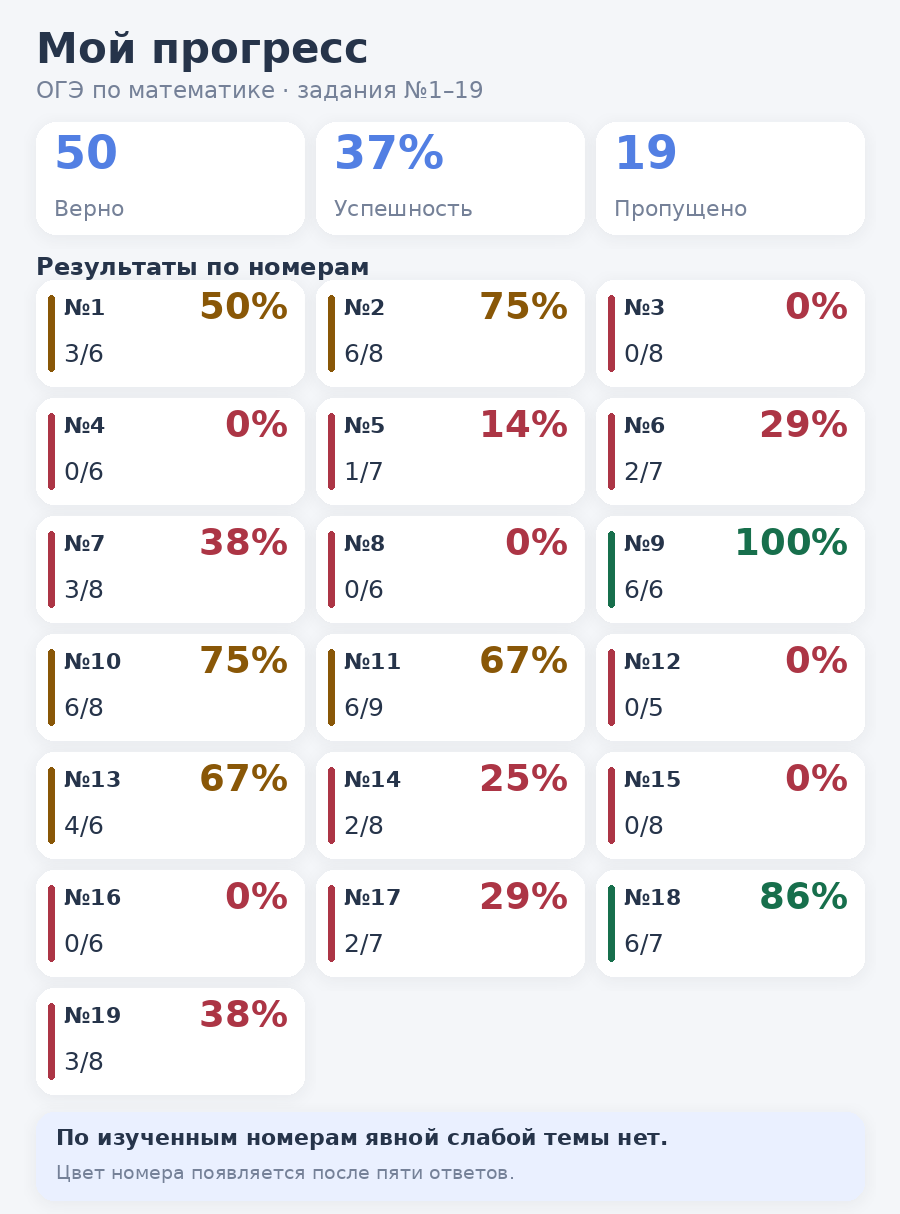
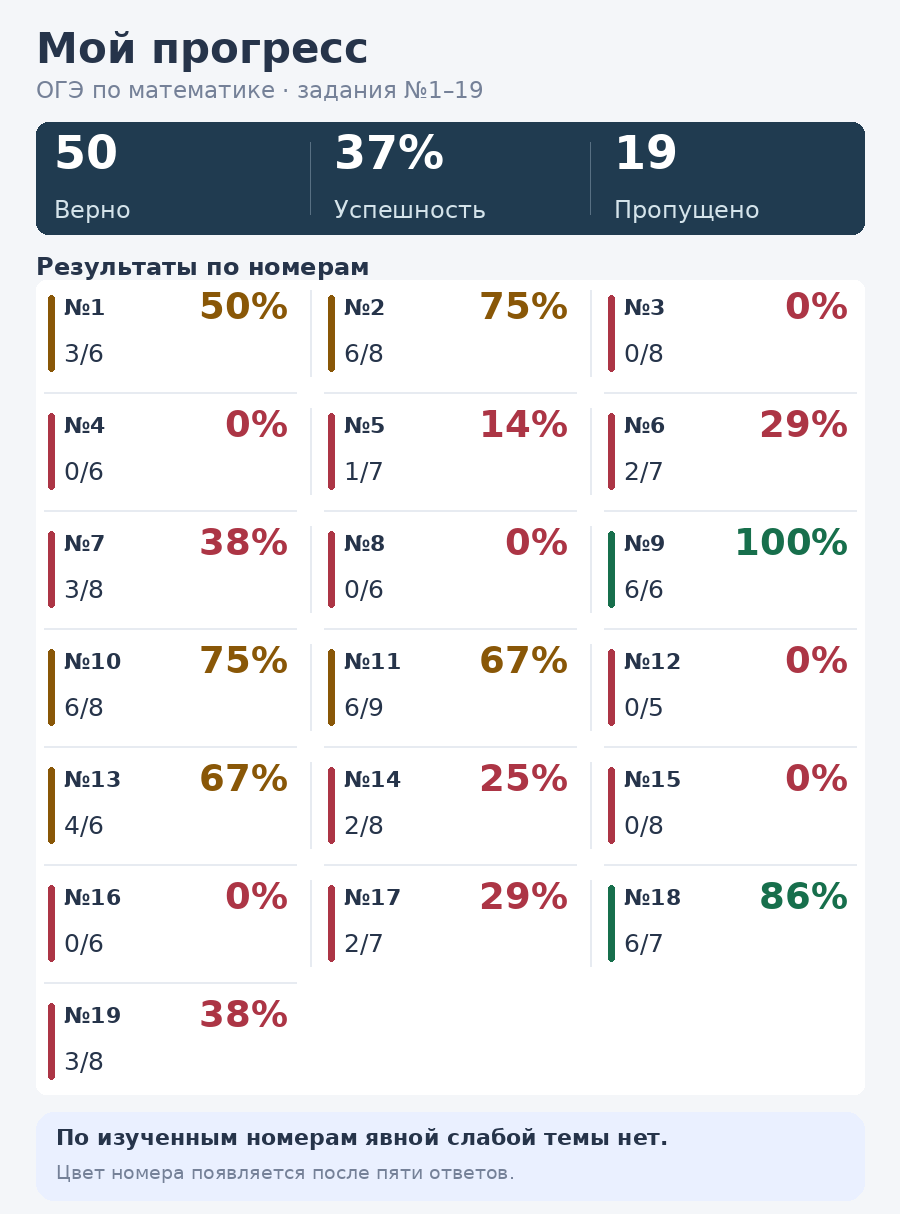
Собрать статистику №1–19 на одном компактном листе

Changed region(s): [[0.0311, 0.0914, 0.9644, 0.2133]]

diff --git a/app/bot/progress_image.py b/app/bot/progress_image.py
@@ -17,7 +17,7 @@ from aiogram.types import (
     InputMediaPhoto,
     Message,
 )
-from PIL import Image, ImageDraw, ImageFilter, ImageFont
+from PIL import Image, ImageDraw, ImageFont
 
 from app.persistence.training_insights import (
     MIN_ANSWERED_SAMPLE,
@@ -104,17 +104,6 @@ def _card(
     radius: int = 22,
     fill: str = PALETTE["card"],
 ) -> None:
-    x1, y1, x2, y2 = box
-    shadow_pad = 12
-    shadow = Image.new("RGBA", (x2 - x1 + shadow_pad * 2, y2 - y1 + shadow_pad * 2))
-    ImageDraw.Draw(shadow).rounded_rectangle(
-        (shadow_pad, shadow_pad, shadow.width - shadow_pad, shadow.height - shadow_pad),
-        radius=radius,
-        fill=(38, 52, 74, 16),
-    )
-    image.alpha_composite(
-        shadow.filter(ImageFilter.GaussianBlur(8)), (x1 - shadow_pad, y1 - shadow_pad + 3)
-    )
     ImageDraw.Draw(image).rounded_rectangle(box, radius=radius, fill=fill)
 
 
@@ -169,9 +158,11 @@ def render_overview(insights: dict[str, Any]) -> Image.Image:
         ("Успешность", success_label(total)),
         ("Пропущено", str(max(0, int(total.get("skipped", 0))))),
     )
+    _card(image, (PAD, metric_y, WIDTH - PAD, metric_y + metric_h), radius=12, fill="#203B50")
     for index, (label, value) in enumerate(metrics):
         x = PAD + index * (metric_width + metric_gap)
-        _card(image, (x, metric_y, x + metric_width, metric_y + metric_h), radius=20)
+        if index:
+            draw.line((x - 6, metric_y + 20, x - 6, metric_y + metric_h - 20), fill="#587083")
         draw = ImageDraw.Draw(image)
         draw_fitted_text(
             draw,
@@ -180,19 +171,24 @@ def render_overview(insights: dict[str, Any]) -> Image.Image:
             max_width=metric_width - 36,
             size=46,
             minimum_size=24,
-            fill=PALETTE["blue"],
+            fill="white",
             bold=True,
         )
-        draw.text((x + 18, metric_y + 73), label, font=_font(22), fill=PALETTE["muted"])
+        draw.text((x + 18, metric_y + 73), label, font=_font(24), fill="#D4E3EA")
 
     draw = ImageDraw.Draw(image)
     draw.text((PAD, 252), "Результаты по номерам", font=_font(24, True), fill=PALETTE["ink"])
+    grid_bottom = GRID_TOP + GRID_ROWS * (TILE_HEIGHT + TILE_GAP_Y) - TILE_GAP_Y
+    _card(image, (PAD, GRID_TOP, WIDTH - PAD, grid_bottom), radius=10)
     for number, correct, answered, rate, sufficient in dashboard_tile_values(insights):
         index = number - 1
         row, column = divmod(index, GRID_COLUMNS)
         x = GRID_LEFT + column * (TILE_WIDTH + TILE_GAP_X)
         y = GRID_TOP + row * (TILE_HEIGHT + TILE_GAP_Y)
-        _card(image, (x, y, x + TILE_WIDTH, y + TILE_HEIGHT), radius=18)
+        if row:
+            draw.line((x + 8, y - 6, x + TILE_WIDTH - 8, y - 6), fill=PALETTE["line"], width=2)
+        if column:
+            draw.line((x - 6, y + 10, x - 6, y + TILE_HEIGHT - 10), fill=PALETTE["line"], width=2)
         draw = ImageDraw.Draw(image)
         accent = dashboard_tile_accent(correct, answered)
         stripe = accent if sufficient else PALETTE["line"]
@@ -214,7 +210,7 @@ def render_overview(insights: dict[str, Any]) -> Image.Image:
             max_width=TILE_WIDTH - 44, size=25, minimum_size=13, fill=PALETTE["ink"],
         )
 
-    rec_y = GRID_TOP + GRID_ROWS * (TILE_HEIGHT + TILE_GAP_Y) - TILE_GAP_Y + 18
+    rec_y = grid_bottom + 18
     _card(image, (PAD, rec_y, WIDTH - PAD, rec_y + 88), radius=18, fill=PALETTE["blue_light"])
     draw = ImageDraw.Draw(image)
     draw.text(

diff --git a/tests/test_progress_image.py b/tests/test_progress_image.py
@@ -51,7 +51,7 @@ def test_empty_and_insufficient_samples_are_neutral_and_render_on_phone() -> Non
             assert image.format == "PNG"
             assert image.width == WIDTH
             assert image.height < 1300
-            for width in (360, 375, 390):
+            for width in (360, 375, 390, 430):
                 mobile = image.resize((width, round(image.height * width / image.width)))
                 assert mobile.width == width
                 assert mobile.height < 600

diff --git a/scripts/generate_progress_previews.py b/scripts/generate_progress_previews.py
@@ -73,7 +73,7 @@ def generate() -> list[Path]:
         path.write_bytes(png)
         output.append(path)
         with Image.open(path) as image:
-            for width in (360, 390):
+            for width in (360, 390, 430):
                 resized = image.resize(
                     (width, round(image.height * width / image.width)),
                     Image.Resampling.LANCZOS,

diff --git a/reports/previews/README.md b/reports/previews/README.md
@@ -8,8 +8,10 @@ The managed environment has Chromium installed but cannot complete a headless sc
 
 The current all-numbers screen is rendered by Pillow in `app/bot/progress_image.py`. Run `uv run python scripts/generate_progress_previews.py` to regenerate these three fictional-data states:
 
-* [Empty progress](progress-empty.png), [360 px](progress-empty-360.png), [390 px](progress-empty-390.png)
-* [Partially filled progress](progress-partial.png), [360 px](progress-partial-360.png), [390 px](progress-partial-390.png)
-* [All numbers with varied results](progress-full.png), [360 px](progress-full-360.png), [390 px](progress-full-390.png)
+* [Empty progress](progress-empty.png), [360 px](progress-empty-360.png), [390 px](progress-empty-390.png), [430 px](progress-empty-430.png)
+* [Partially filled progress](progress-partial.png), [360 px](progress-partial-360.png), [390 px](progress-partial-390.png), [430 px](progress-partial-430.png)
+* [All numbers with varied results](progress-full.png), [360 px](progress-full-360.png), [390 px](progress-full-390.png), [430 px](progress-full-430.png)
 
-The source images are 900 px wide and show all 19 numbers in one 3-column grid. Phone-width files are LANCZOS resizes of the renderer output, checked visually at 360 and 390 px. Sample data is synthetic and contains no student records. These previews are not screenshots from a live Telegram client.
+The source images are 900 px wide and show all 19 numbers in one 3-column grid. Phone-width files are LANCZOS resizes of the renderer output, checked visually at 360, 390 and 430 px. Sample data is synthetic and contains no student records. These previews are not screenshots from a live Telegram client.
+
+[Previous and current overview at 360 px](progress-comparison.png).

diff --git a/CHANGELOG.md b/CHANGELOG.md
@@ -4,6 +4,10 @@
 
 - В списках выделены темы задач, указан результат после исправленной ошибки и подписан возврат на исходную страницу.
 
+## Изображение прогресса
+
+- Три общих показателя собраны в одну строку, а результаты №1–19 разделены тонкими линиями. Добавлены превью шириной 430 пикселей.
+
 ## Восстановление после прерванного рестарта тренировки
 
 - Если процесс остановился до выдачи новой задачи, «Продолжить» снова открывает исходную задачу с прежним результатом и попытками.
